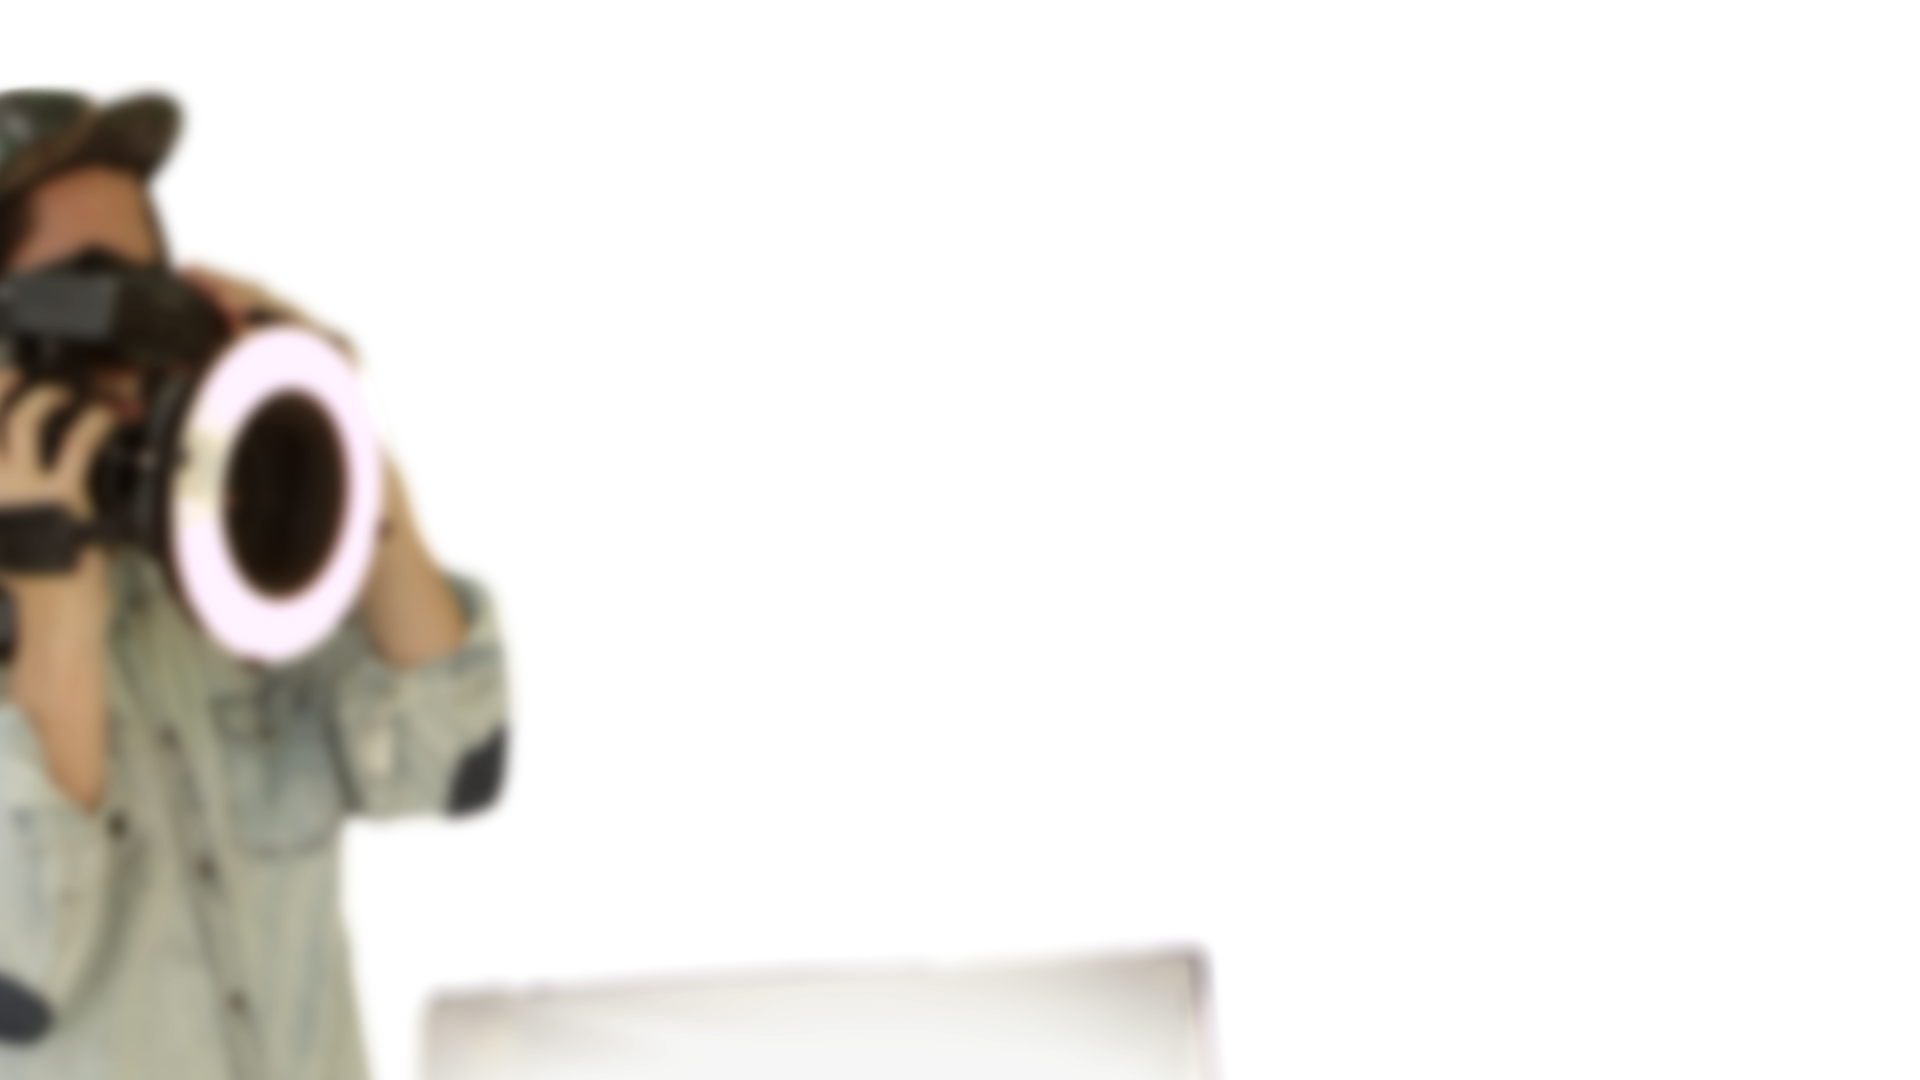
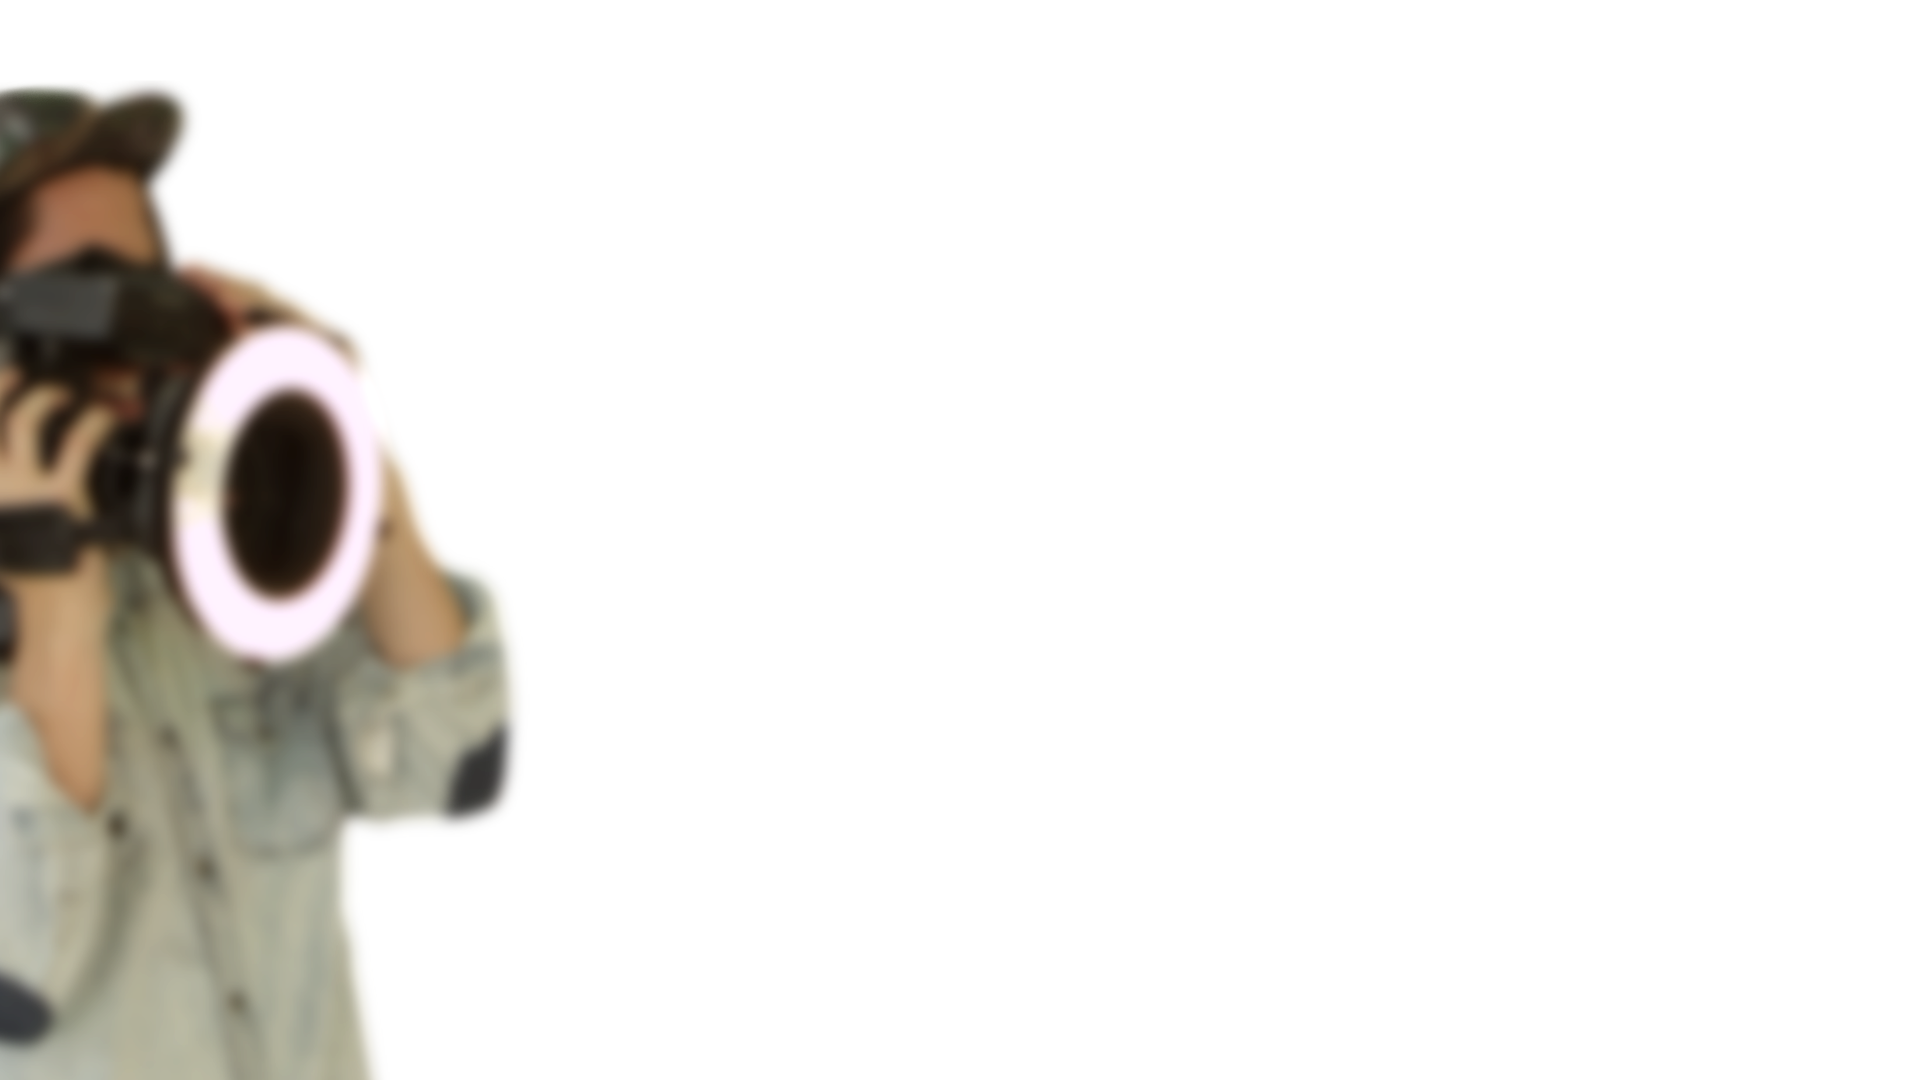
Background fixes.

Changed region(s): [[0.2188, 0.8556, 0.6562, 1.0]]

diff --git a/app/assets/stylesheets/views/work.css.scss b/app/assets/stylesheets/views/work.css.scss
@@ -10,7 +10,7 @@ ul#work {
     width: 100%;
     position: relative;
     background-repeat: no-repeat;
-    background-size: contain;
+    background-size: cover;
 
     section {
       @include clearfix;
